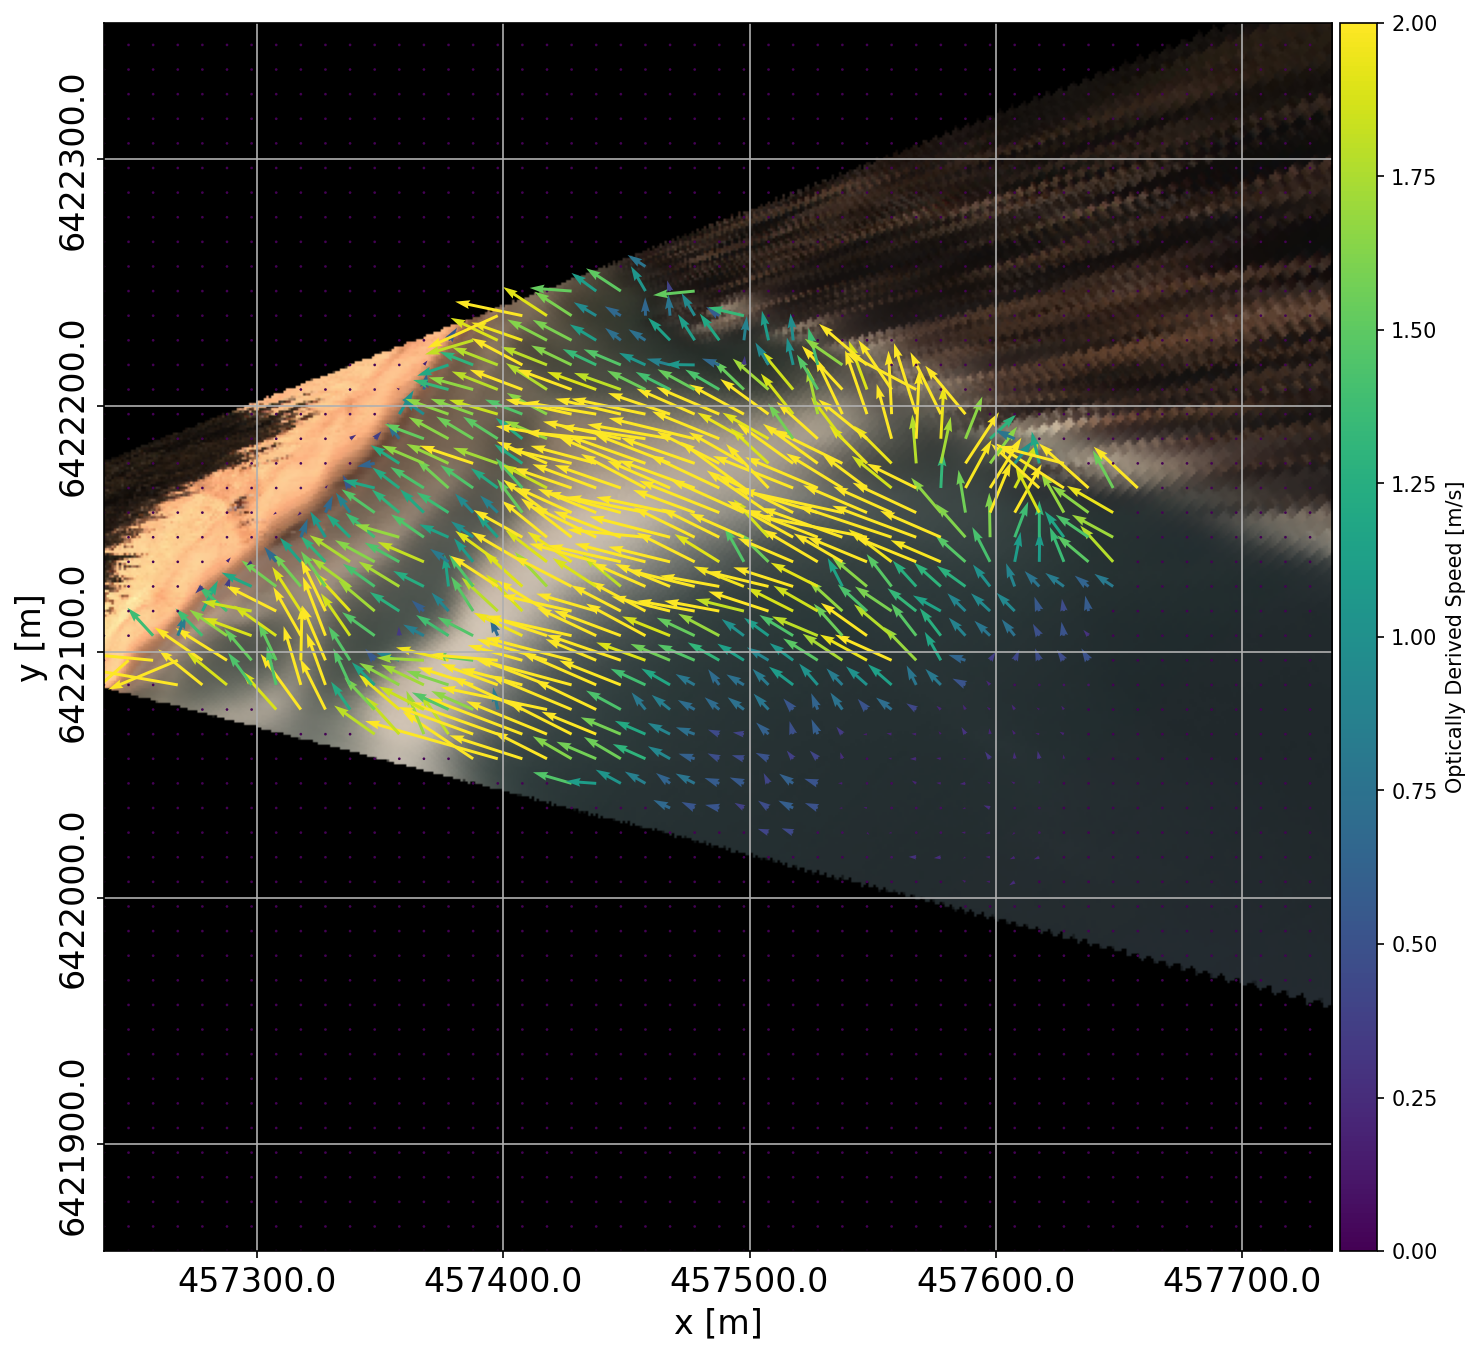
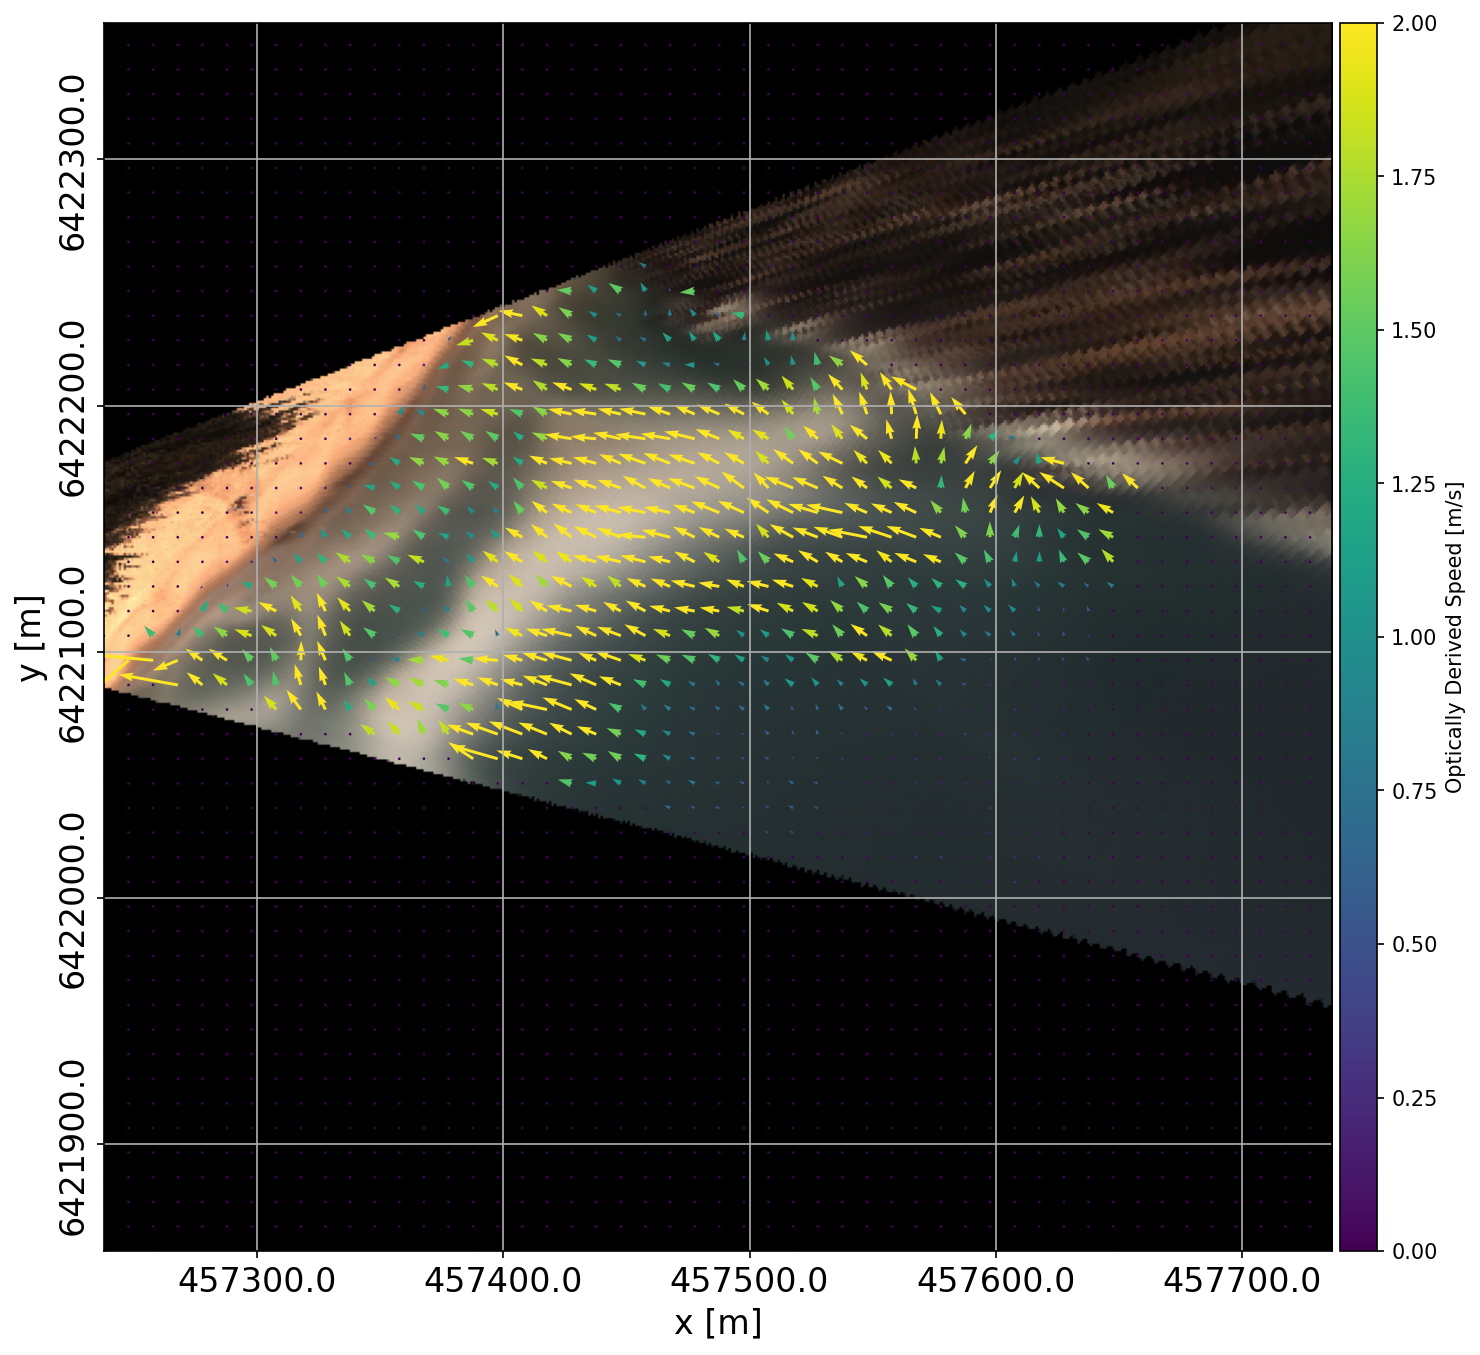
fix scale in the quiver plot

Changed region(s): [[0.0932, 0.186, 0.7459, 0.5889]]

diff --git a/src/post/plot_averaged_flow.py b/src/post/plot_averaged_flow.py
@@ -56,6 +56,13 @@ if __name__ == '__main__':
                         required=False,
                         help="Maximun speed value.")
 
+    parser.add_argument("--scale", "-qs",
+                        action="store",
+                        dest="scale",
+                        default=100,
+                        required=False,
+                        help="Scale for the arrows.")
+
     parser.add_argument("--output", "-o",
                         action="store",
                         dest="output",
@@ -74,6 +81,7 @@ if __name__ == '__main__':
 
     CUT = float(args.cut)
     step = int(args.step)
+    scale = float(args.scale)
 
     # try to read the average image
     try:
@@ -126,7 +134,7 @@ if __name__ == '__main__':
                   grid_y[::step, ::step],
                   u_mean[::step, ::step],
                   v_mean[::step, ::step], mag[::step, ::step],
-                  cmap="viridis", norm=norm)
+                  cmap="viridis", norm=norm, scale=scale)
     
     if has_avg:
         extent = [grid_x.min(), grid_x.max(), grid_y.min(), grid_y.max()]
